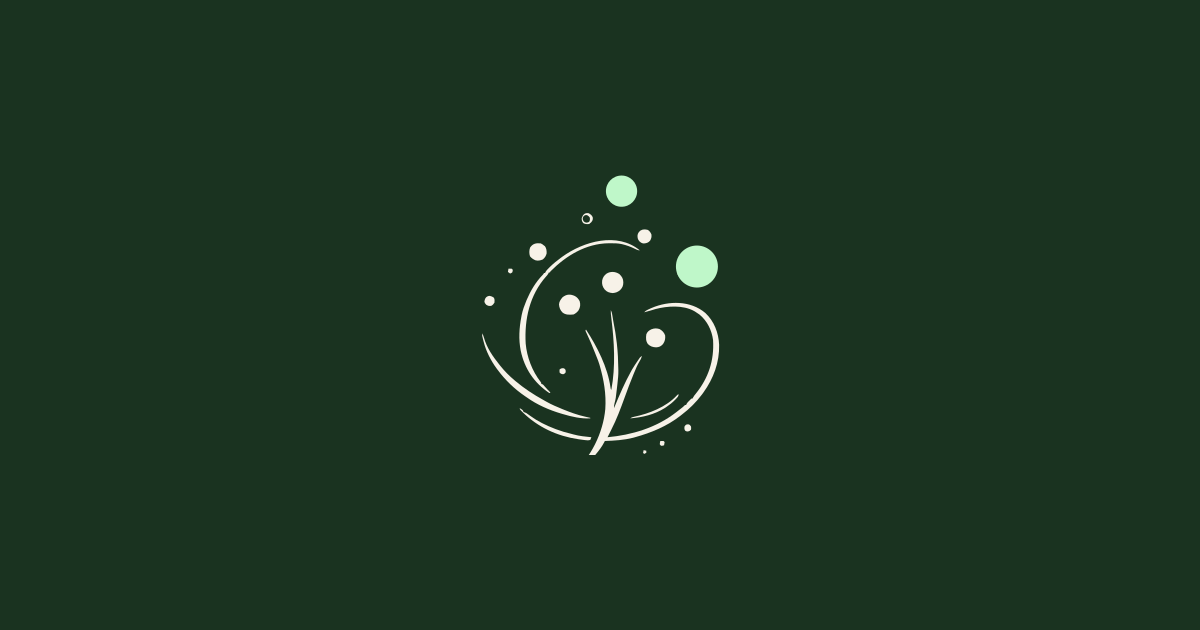
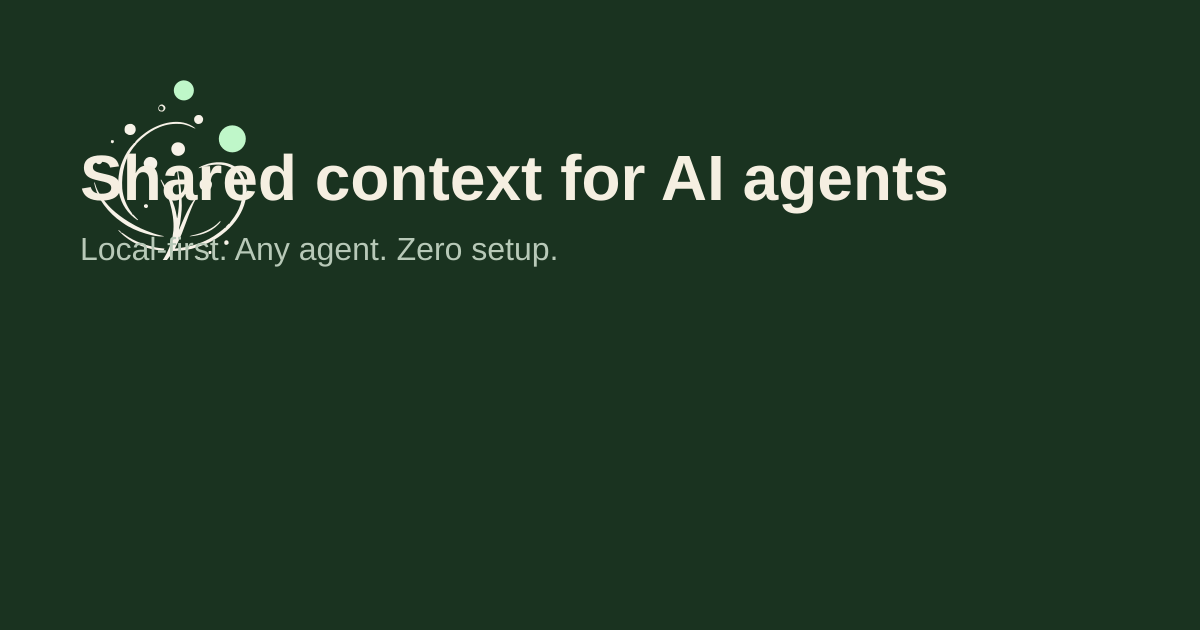
Deploy preview for PR 659 🛫

diff --git a/_preview/pr-659/different.html b/_preview/pr-659/different.html
@@ -1,4 +1,4 @@
-<!DOCTYPE html><html lang="en"> <head><meta charset="UTF-8"><meta name="viewport" content="width=device-width, initial-scale=1.0"><title>Why Lore — What Makes Lore Different</title><meta name="description" content="Why choose Lore: a local-first, fair source proxy that unifies shared context and long-term memory for any AI agent — no platform lock-in."><!-- Open Graph --><meta property="og:title" content="Why Lore — What Makes Lore Different"><meta property="og:description" content="Why choose Lore: a local-first, fair source proxy that unifies shared context and long-term memory for any AI agent — no platform lock-in."><meta property="og:image" content="https://withlore.ai/_preview/pr-659/og-image.png"><meta property="og:image:width" content="1200"><meta property="og:image:height" content="630"><meta property="og:image:alt" content="Lore.AI — Shared Context for AI Agents"><meta property="og:url" content="https://withlore.ai/_preview/pr-659/different.html"><meta property="og:type" content="website"><meta property="og:site_name" content="Lore.AI"><!-- Twitter Card --><meta name="twitter:card" content="summary_large_image"><meta name="twitter:title" content="Why Lore — What Makes Lore Different"><meta name="twitter:description" content="Why choose Lore: a local-first, fair source proxy that unifies shared context and long-term memory for any AI agent — no platform lock-in."><meta name="twitter:image" content="https://withlore.ai/_preview/pr-659/og-image.png"><meta name="twitter:site" content="@withLoreAI"><link rel="icon" type="image/svg+xml" href="favicon.svg"><link rel="icon" type="image/png" sizes="32x32" href="favicon-32.png"><link rel="apple-touch-icon" sizes="180x180" href="apple-touch-icon.png"><link rel="preconnect" href="https://fonts.googleapis.com"><link rel="preconnect" href="https://fonts.gstatic.com" crossorigin><link href="https://fonts.googleapis.com/css2?family=Playfair+Display:ital,wght@0,400;0,500;1,400;1,500&family=DM+Sans:wght@200;300;400;500;700&display=swap" rel="stylesheet"><link rel="stylesheet" href="theme.css"><script type="module" src="/_preview/pr-659/_astro/page.B_tncCx8.js"></script></head> <body> <div class="cursor" id="cur"></div> <!-- NAV --> <nav class="top-nav"> <div class="nav-left"> <a href="/_preview/pr-659/index.html" class="logo" data-theme="dark" aria-label="Lore.AI — home">   <img src="/_preview/pr-659/_astro/loreai-dark.BoECdKok.svg" class="logo-img" alt="" width="64" height="64" style="height: 64px; width: 64px;"> <span class="logo-text">Lore<span class="logo-dot">.</span>AI</span> </a> </div> <div class="nav-right"> <ul class="nav-links"> <li><a href="index.html#problem">The Problem</a></li> <li><a href="index.html#how">How It Works</a></li> <li><a href="index.html#features">Features</a></li> <li><a href="different.html">Why Lore</a></li> <li><a href="docs.html">Docs</a></li> <li><a href="blog.html">Blog</a></li> </ul> <div class="nav-socials" aria-label="Social links"> <a href="https://x.com/withLoreAI" target="_blank" rel="noopener noreferrer" class="social-link" aria-label="Lore.AI on X"><svg viewBox="0 0 24 24" aria-hidden="true"><path d="M18.901 1.153h3.68l-8.04 9.19L24 22.846h-7.406l-5.8-7.584-6.638 7.584H.474l8.6-9.83L0 1.154h7.594l5.243 6.932ZM17.61 20.644h2.039L6.486 3.24H4.298Z"></path></svg></a> <a href="https://github.com/byk/loreai" target="_blank" rel="noopener noreferrer" class="social-link" aria-label="Lore.AI on GitHub"><svg viewBox="0 0 24 24" aria-hidden="true"><path d="M12 .297c-6.63 0-12 5.373-12 12 0 5.303 3.438 9.8 8.205 11.385.6.113.82-.258.82-.577 0-.285-.01-1.04-.015-2.04-3.338.724-4.043-1.61-4.043-1.61-.546-1.387-1.333-1.757-1.333-1.757-1.09-.745.083-.73.083-.73 1.205.085 1.84 1.237 1.84 1.237 1.07 1.835 2.807 1.305 3.492.998.108-.776.418-1.305.762-1.605-2.665-.3-5.467-1.332-5.467-5.93 0-1.31.468-2.38 1.235-3.22-.123-.303-.535-1.523.118-3.176 0 0 1.008-.322 3.3 1.23a11.48 11.48 0 0 1 3.003-.404c1.02.005 2.045.138 3.003.404 2.29-1.552 3.295-1.23 3.295-1.23.655 1.653.243 2.873.12 3.176.77.84 1.233 1.91 1.233 3.22 0 4.61-2.807 5.625-5.48 5.922.43.372.823 1.102.823 2.222 0 1.605-.015 2.898-.015 3.293 0 .32.218.695.825.577C20.565 22.092 24 17.592 24 12.297c0-6.627-5.373-12-12-12"></path></svg></a> </div> <a href="index.html#waitlist" class="nav-btn">Folk Lore Waitlist</a> </div> </nav> <!-- HERO --> <section class="hero hero-compact"> <div style="max-width: 760px;"> <div class="hero-badge sr" style="justify-content: center;"> <span class="badge-pill">Why Lore</span>
+<!DOCTYPE html><html lang="en"> <head><meta charset="UTF-8"><meta name="viewport" content="width=device-width, initial-scale=1.0"><title>Why Lore — What Makes Lore Different</title><meta name="description" content="A local-first, fair source proxy that unifies shared context and long-term memory for any AI agent — no lock-in."><!-- Open Graph --><meta property="og:title" content="Why Lore — What Makes Lore Different"><meta property="og:description" content="A local-first, fair source proxy with shared context and long-term memory for any AI agent. No lock-in."><meta property="og:image" content="https://withlore.ai/_preview/pr-659/og-image.png"><meta property="og:image:width" content="1200"><meta property="og:image:height" content="630"><meta property="og:image:alt" content="Lore.AI — Shared Context for AI Agents"><meta property="og:url" content="https://withlore.ai/_preview/pr-659/different.html"><meta property="og:type" content="website"><meta property="og:site_name" content="Lore.AI"><!-- Twitter Card --><meta name="twitter:card" content="summary_large_image"><meta name="twitter:title" content="Why Lore — What Makes Lore Different"><meta name="twitter:description" content="A local-first, fair source proxy with shared context and long-term memory for any AI agent. No lock-in."><meta name="twitter:image" content="https://withlore.ai/_preview/pr-659/og-image.png"><meta name="twitter:site" content="@withLoreAI"><link rel="icon" type="image/svg+xml" href="favicon.svg"><link rel="icon" type="image/png" sizes="32x32" href="favicon-32.png"><link rel="apple-touch-icon" sizes="180x180" href="apple-touch-icon.png"><link rel="preconnect" href="https://fonts.googleapis.com"><link rel="preconnect" href="https://fonts.gstatic.com" crossorigin><link href="https://fonts.googleapis.com/css2?family=Playfair+Display:ital,wght@0,400;0,500;1,400;1,500&family=DM+Sans:wght@200;300;400;500;700&display=swap" rel="stylesheet"><link rel="stylesheet" href="theme.css"><script type="module" src="/_preview/pr-659/_astro/page.B_tncCx8.js"></script></head> <body> <div class="cursor" id="cur"></div> <!-- NAV --> <nav class="top-nav"> <div class="nav-left"> <a href="/_preview/pr-659/index.html" class="logo" data-theme="dark" aria-label="Lore.AI — home">   <img src="/_preview/pr-659/_astro/loreai-dark.BoECdKok.svg" class="logo-img" alt="" width="64" height="64" style="height: 64px; width: 64px;"> <span class="logo-text">Lore<span class="logo-dot">.</span>AI</span> </a> </div> <div class="nav-right"> <ul class="nav-links"> <li><a href="index.html#problem">The Problem</a></li> <li><a href="index.html#how">How It Works</a></li> <li><a href="index.html#features">Features</a></li> <li><a href="different.html">Why Lore</a></li> <li><a href="docs.html">Docs</a></li> <li><a href="blog.html">Blog</a></li> </ul> <div class="nav-socials" aria-label="Social links"> <a href="https://x.com/withLoreAI" target="_blank" rel="noopener noreferrer" class="social-link" aria-label="Lore.AI on X"><svg viewBox="0 0 24 24" aria-hidden="true"><path d="M18.901 1.153h3.68l-8.04 9.19L24 22.846h-7.406l-5.8-7.584-6.638 7.584H.474l8.6-9.83L0 1.154h7.594l5.243 6.932ZM17.61 20.644h2.039L6.486 3.24H4.298Z"></path></svg></a> <a href="https://github.com/byk/loreai" target="_blank" rel="noopener noreferrer" class="social-link" aria-label="Lore.AI on GitHub"><svg viewBox="0 0 24 24" aria-hidden="true"><path d="M12 .297c-6.63 0-12 5.373-12 12 0 5.303 3.438 9.8 8.205 11.385.6.113.82-.258.82-.577 0-.285-.01-1.04-.015-2.04-3.338.724-4.043-1.61-4.043-1.61-.546-1.387-1.333-1.757-1.333-1.757-1.09-.745.083-.73.083-.73 1.205.085 1.84 1.237 1.84 1.237 1.07 1.835 2.807 1.305 3.492.998.108-.776.418-1.305.762-1.605-2.665-.3-5.467-1.332-5.467-5.93 0-1.31.468-2.38 1.235-3.22-.123-.303-.535-1.523.118-3.176 0 0 1.008-.322 3.3 1.23a11.48 11.48 0 0 1 3.003-.404c1.02.005 2.045.138 3.003.404 2.29-1.552 3.295-1.23 3.295-1.23.655 1.653.243 2.873.12 3.176.77.84 1.233 1.91 1.233 3.22 0 4.61-2.807 5.625-5.48 5.922.43.372.823 1.102.823 2.222 0 1.605-.015 2.898-.015 3.293 0 .32.218.695.825.577C20.565 22.092 24 17.592 24 12.297c0-6.627-5.373-12-12-12"></path></svg></a> </div> <a href="index.html#waitlist" class="nav-btn">Folk Lore Waitlist</a> </div> </nav> <!-- HERO --> <section class="hero hero-compact"> <div style="max-width: 760px;"> <div class="hero-badge sr" style="justify-content: center;"> <span class="badge-pill">Why Lore</span>
 A different layer of the stack
 </div> <h1 class="sr">What makes Lore <em>different</em></h1> <p class="hero-desc sr" style="max-width: 60ch; margin: 0 auto 2.5rem;">
 Every AI coding tool now has "memory." But that word means very different things.

diff --git a/_preview/pr-659/index.html b/_preview/pr-659/index.html
@@ -1,4 +1,4 @@
-<!DOCTYPE html><html lang="en"> <head><meta charset="UTF-8"><meta name="viewport" content="width=device-width, initial-scale=1.0"><title>Lore.AI — Shared Context for AI Agents</title><meta name="description" content="Lore is the memory that compounds — shared context for AI agents across tools, projects, and teams. Local-first, fair source, no context files to maintain."><!-- Open Graph --><meta property="og:title" content="Lore.AI — Shared Context for AI Agents"><meta property="og:description" content="Lore is the memory that compounds — shared context for AI agents across tools, projects, and teams. Local-first, fair source, no context files to maintain."><meta property="og:image" content="https://withlore.ai/_preview/pr-659/og-image.png"><meta property="og:image:width" content="1200"><meta property="og:image:height" content="630"><meta property="og:image:alt" content="Lore.AI — Shared Context for AI Agents"><meta property="og:url" content="https://withlore.ai/_preview/pr-659/index.html"><meta property="og:type" content="website"><meta property="og:site_name" content="Lore.AI"><!-- Twitter Card --><meta name="twitter:card" content="summary_large_image"><meta name="twitter:title" content="Lore.AI — Shared Context for AI Agents"><meta name="twitter:description" content="Lore is the memory that compounds — shared context for AI agents across tools, projects, and teams. Local-first, fair source, no context files to maintain."><meta name="twitter:image" content="https://withlore.ai/_preview/pr-659/og-image.png"><meta name="twitter:site" content="@withLoreAI"><link rel="icon" type="image/svg+xml" href="favicon.svg"><link rel="icon" type="image/png" sizes="32x32" href="favicon-32.png"><link rel="apple-touch-icon" sizes="180x180" href="apple-touch-icon.png"><link rel="preconnect" href="https://fonts.googleapis.com"><link rel="preconnect" href="https://fonts.gstatic.com" crossorigin><link href="https://fonts.googleapis.com/css2?family=Playfair+Display:ital,wght@0,400;0,500;1,400;1,500&family=DM+Sans:wght@200;300;400;500;700&display=swap" rel="stylesheet"><link rel="stylesheet" href="theme.css"><script type="module" src="/_preview/pr-659/_astro/page.B_tncCx8.js"></script></head> <body> <div class="cursor" id="cur"></div> <!-- NAV --> <nav class="top-nav"> <div class="nav-left"> <a href="/_preview/pr-659/index.html" class="logo" data-theme="dark" aria-label="Lore.AI — home">   <img src="/_preview/pr-659/_astro/loreai-dark.BoECdKok.svg" class="logo-img" alt="" width="64" height="64" style="height: 64px; width: 64px;"> <span class="logo-text">Lore<span class="logo-dot">.</span>AI</span> </a> </div> <div class="nav-right"> <ul class="nav-links"> <li><a href="#problem">The Problem</a></li> <li><a href="#how">How It Works</a></li> <li><a href="#features">Features</a></li> <li><a href="different.html">Why Lore</a></li> <li><a href="docs.html">Docs</a></li> <li><a href="blog.html">Blog</a></li> </ul> <div class="nav-socials" aria-label="Social links"> <a href="https://x.com/withLoreAI" target="_blank" rel="noopener noreferrer" class="social-link" aria-label="Lore.AI on X"><svg viewBox="0 0 24 24" aria-hidden="true"><path d="M18.901 1.153h3.68l-8.04 9.19L24 22.846h-7.406l-5.8-7.584-6.638 7.584H.474l8.6-9.83L0 1.154h7.594l5.243 6.932ZM17.61 20.644h2.039L6.486 3.24H4.298Z"></path></svg></a> <a href="https://github.com/byk/loreai" target="_blank" rel="noopener noreferrer" class="social-link" aria-label="Lore.AI on GitHub"><svg viewBox="0 0 24 24" aria-hidden="true"><path d="M12 .297c-6.63 0-12 5.373-12 12 0 5.303 3.438 9.8 8.205 11.385.6.113.82-.258.82-.577 0-.285-.01-1.04-.015-2.04-3.338.724-4.043-1.61-4.043-1.61-.546-1.387-1.333-1.757-1.333-1.757-1.09-.745.083-.73.083-.73 1.205.085 1.84 1.237 1.84 1.237 1.07 1.835 2.807 1.305 3.492.998.108-.776.418-1.305.762-1.605-2.665-.3-5.467-1.332-5.467-5.93 0-1.31.468-2.38 1.235-3.22-.123-.303-.535-1.523.118-3.176 0 0 1.008-.322 3.3 1.23a11.48 11.48 0 0 1 3.003-.404c1.02.005 2.045.138 3.003.404 2.29-1.552 3.295-1.23 3.295-1.23.655 1.653.243 2.873.12 3.176.77.84 1.233 1.91 1.233 3.22 0 4.61-2.807 5.625-5.48 5.922.43.372.823 1.102.823 2.222 0 1.605-.015 2.898-.015 3.293 0 .32.218.695.825.577C20.565 22.092 24 17.592 24 12.297c0-6.627-5.373-12-12-12"></path></svg></a> </div> <a href="#waitlist" class="nav-btn">Folk Lore Waitlist</a> </div> </nav> <!-- HERO --> <section class="hero"> <div class="hero-bg"> <svg viewBox="0 0 500 500" fill="none" xmlns="http://www.w3.org/2000/svg"> <circle cx="250" cy="250" r="240" stroke="#3d6644" stroke-width=".8"></circle> <circle cx="250" cy="250" r="120" stroke="#3d6644" stroke-width=".5"></circle> </svg> </div> <div> <div class="hero-badge sr"> <span class="badge-pill" id="version-badge">loading…</span>
+<!DOCTYPE html><html lang="en"> <head><meta charset="UTF-8"><meta name="viewport" content="width=device-width, initial-scale=1.0"><title>Lore.AI — Shared Context for AI Agents</title><meta name="description" content="Shared context that compounds for AI agents. Local-first, fair source, zero context files to maintain."><!-- Open Graph --><meta property="og:title" content="Lore.AI — Shared Context for AI Agents"><meta property="og:description" content="Shared context that compounds for AI agents. Local-first, fair source, zero context files."><meta property="og:image" content="https://withlore.ai/_preview/pr-659/og-image.png"><meta property="og:image:width" content="1200"><meta property="og:image:height" content="630"><meta property="og:image:alt" content="Lore.AI — Shared Context for AI Agents"><meta property="og:url" content="https://withlore.ai/_preview/pr-659/index.html"><meta property="og:type" content="website"><meta property="og:site_name" content="Lore.AI"><!-- Twitter Card --><meta name="twitter:card" content="summary_large_image"><meta name="twitter:title" content="Lore.AI — Shared Context for AI Agents"><meta name="twitter:description" content="Shared context that compounds for AI agents. Local-first, fair source, zero context files."><meta name="twitter:image" content="https://withlore.ai/_preview/pr-659/og-image.png"><meta name="twitter:site" content="@withLoreAI"><link rel="icon" type="image/svg+xml" href="favicon.svg"><link rel="icon" type="image/png" sizes="32x32" href="favicon-32.png"><link rel="apple-touch-icon" sizes="180x180" href="apple-touch-icon.png"><link rel="preconnect" href="https://fonts.googleapis.com"><link rel="preconnect" href="https://fonts.gstatic.com" crossorigin><link href="https://fonts.googleapis.com/css2?family=Playfair+Display:ital,wght@0,400;0,500;1,400;1,500&family=DM+Sans:wght@200;300;400;500;700&display=swap" rel="stylesheet"><link rel="stylesheet" href="theme.css"><script type="module" src="/_preview/pr-659/_astro/page.B_tncCx8.js"></script></head> <body> <div class="cursor" id="cur"></div> <!-- NAV --> <nav class="top-nav"> <div class="nav-left"> <a href="/_preview/pr-659/index.html" class="logo" data-theme="dark" aria-label="Lore.AI — home">   <img src="/_preview/pr-659/_astro/loreai-dark.BoECdKok.svg" class="logo-img" alt="" width="64" height="64" style="height: 64px; width: 64px;"> <span class="logo-text">Lore<span class="logo-dot">.</span>AI</span> </a> </div> <div class="nav-right"> <ul class="nav-links"> <li><a href="#problem">The Problem</a></li> <li><a href="#how">How It Works</a></li> <li><a href="#features">Features</a></li> <li><a href="different.html">Why Lore</a></li> <li><a href="docs.html">Docs</a></li> <li><a href="blog.html">Blog</a></li> </ul> <div class="nav-socials" aria-label="Social links"> <a href="https://x.com/withLoreAI" target="_blank" rel="noopener noreferrer" class="social-link" aria-label="Lore.AI on X"><svg viewBox="0 0 24 24" aria-hidden="true"><path d="M18.901 1.153h3.68l-8.04 9.19L24 22.846h-7.406l-5.8-7.584-6.638 7.584H.474l8.6-9.83L0 1.154h7.594l5.243 6.932ZM17.61 20.644h2.039L6.486 3.24H4.298Z"></path></svg></a> <a href="https://github.com/byk/loreai" target="_blank" rel="noopener noreferrer" class="social-link" aria-label="Lore.AI on GitHub"><svg viewBox="0 0 24 24" aria-hidden="true"><path d="M12 .297c-6.63 0-12 5.373-12 12 0 5.303 3.438 9.8 8.205 11.385.6.113.82-.258.82-.577 0-.285-.01-1.04-.015-2.04-3.338.724-4.043-1.61-4.043-1.61-.546-1.387-1.333-1.757-1.333-1.757-1.09-.745.083-.73.083-.73 1.205.085 1.84 1.237 1.84 1.237 1.07 1.835 2.807 1.305 3.492.998.108-.776.418-1.305.762-1.605-2.665-.3-5.467-1.332-5.467-5.93 0-1.31.468-2.38 1.235-3.22-.123-.303-.535-1.523.118-3.176 0 0 1.008-.322 3.3 1.23a11.48 11.48 0 0 1 3.003-.404c1.02.005 2.045.138 3.003.404 2.29-1.552 3.295-1.23 3.295-1.23.655 1.653.243 2.873.12 3.176.77.84 1.233 1.91 1.233 3.22 0 4.61-2.807 5.625-5.48 5.922.43.372.823 1.102.823 2.222 0 1.605-.015 2.898-.015 3.293 0 .32.218.695.825.577C20.565 22.092 24 17.592 24 12.297c0-6.627-5.373-12-12-12"></path></svg></a> </div> <a href="#waitlist" class="nav-btn">Folk Lore Waitlist</a> </div> </nav> <!-- HERO --> <section class="hero"> <div class="hero-bg"> <svg viewBox="0 0 500 500" fill="none" xmlns="http://www.w3.org/2000/svg"> <circle cx="250" cy="250" r="240" stroke="#3d6644" stroke-width=".8"></circle> <circle cx="250" cy="250" r="120" stroke="#3d6644" stroke-width=".5"></circle> </svg> </div> <div> <div class="hero-badge sr"> <span class="badge-pill" id="version-badge">loading…</span>
 Lore. The memory that compounds.
 </div> <h1 class="sr">
 Stop re-explaining<br>